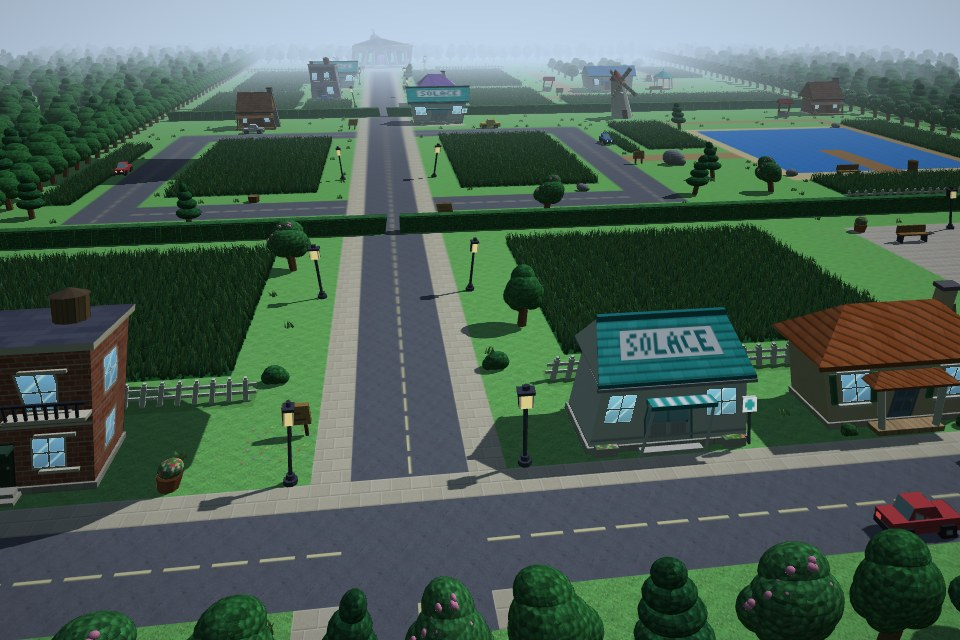
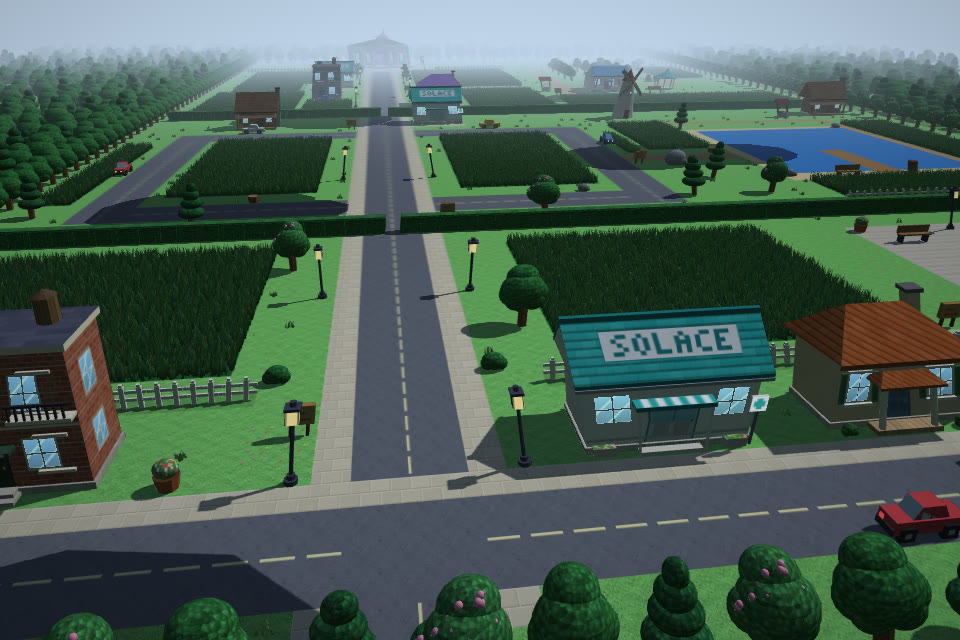
Title drone flight: seamless loop wrap
Camera path and time of day repeat every 48 s, but clouds, water and grass
sway run on the clock. render/drone_seam.mjs renders one second past the
end (same camera as the first second) and drone/blend_seam.py cross-fades it
into the start, so the wrap is invisible. Poster updated to the final first
frame.

Claude-Session: https://claude.ai/code/session_01GB2e6PoZQL4WWVZUhWb6XE

diff --git a/trailer/drone/blend_seam.py b/trailer/drone/blend_seam.py
@@ -1,0 +1,15 @@
+"""Cross-fade the second rendered past the loop's end (out/drone-frames-extra,
+t = LOOP .. LOOP+1) into the loop's first second (see render/drone_seam.mjs).
+The camera is identical in both, so only clouds, water and grass blend."""
+import os
+from PIL import Image
+
+HERE = os.path.dirname(os.path.abspath(__file__))
+OUT = os.path.join(HERE, '..', 'out')
+FADE = 30
+for i in range(FADE):
+    n = f'{i:04d}.png'
+    extra = Image.open(os.path.join(OUT, 'drone-frames-extra', n)).convert('RGB')
+    orig = Image.open(os.path.join(OUT, 'drone-frames-orig', n)).convert('RGB')
+    Image.blend(extra, orig, (i + 0.5) / FADE).save(os.path.join(OUT, 'drone-frames', n))
+print('blended', FADE, 'frames')

diff --git a/trailer/README.md b/trailer/README.md
@@ -98,7 +98,9 @@ as a 3D world from the game's own data:
 ```bash
 python3 drone/export_props.py     # the game's prop models (tools/props3d.py) -> textured 3D meshes (drone/assets/props)
 npm run dev                        # then open http://127.0.0.1:5174/drone.html?play for a live preview
-node render/drone.mjs              # 48 s seamless loop, 4 workers, resumable -> ../public/assets/title/drone.{mp4,webm} + poster.jpg
+node render/drone.mjs              # 48 s loop, 4 workers, resumable -> ../public/assets/title/drone.{mp4,webm} + poster.jpg
+node render/drone_seam.mjs && python3 drone/blend_seam.py && node render/drone.mjs --encode --crf 28
+                                   # render 1 s past the end and cross-fade it into the start: a seamless wrap
 ```
 
 - **Models** (`drone/export_props.py`):
